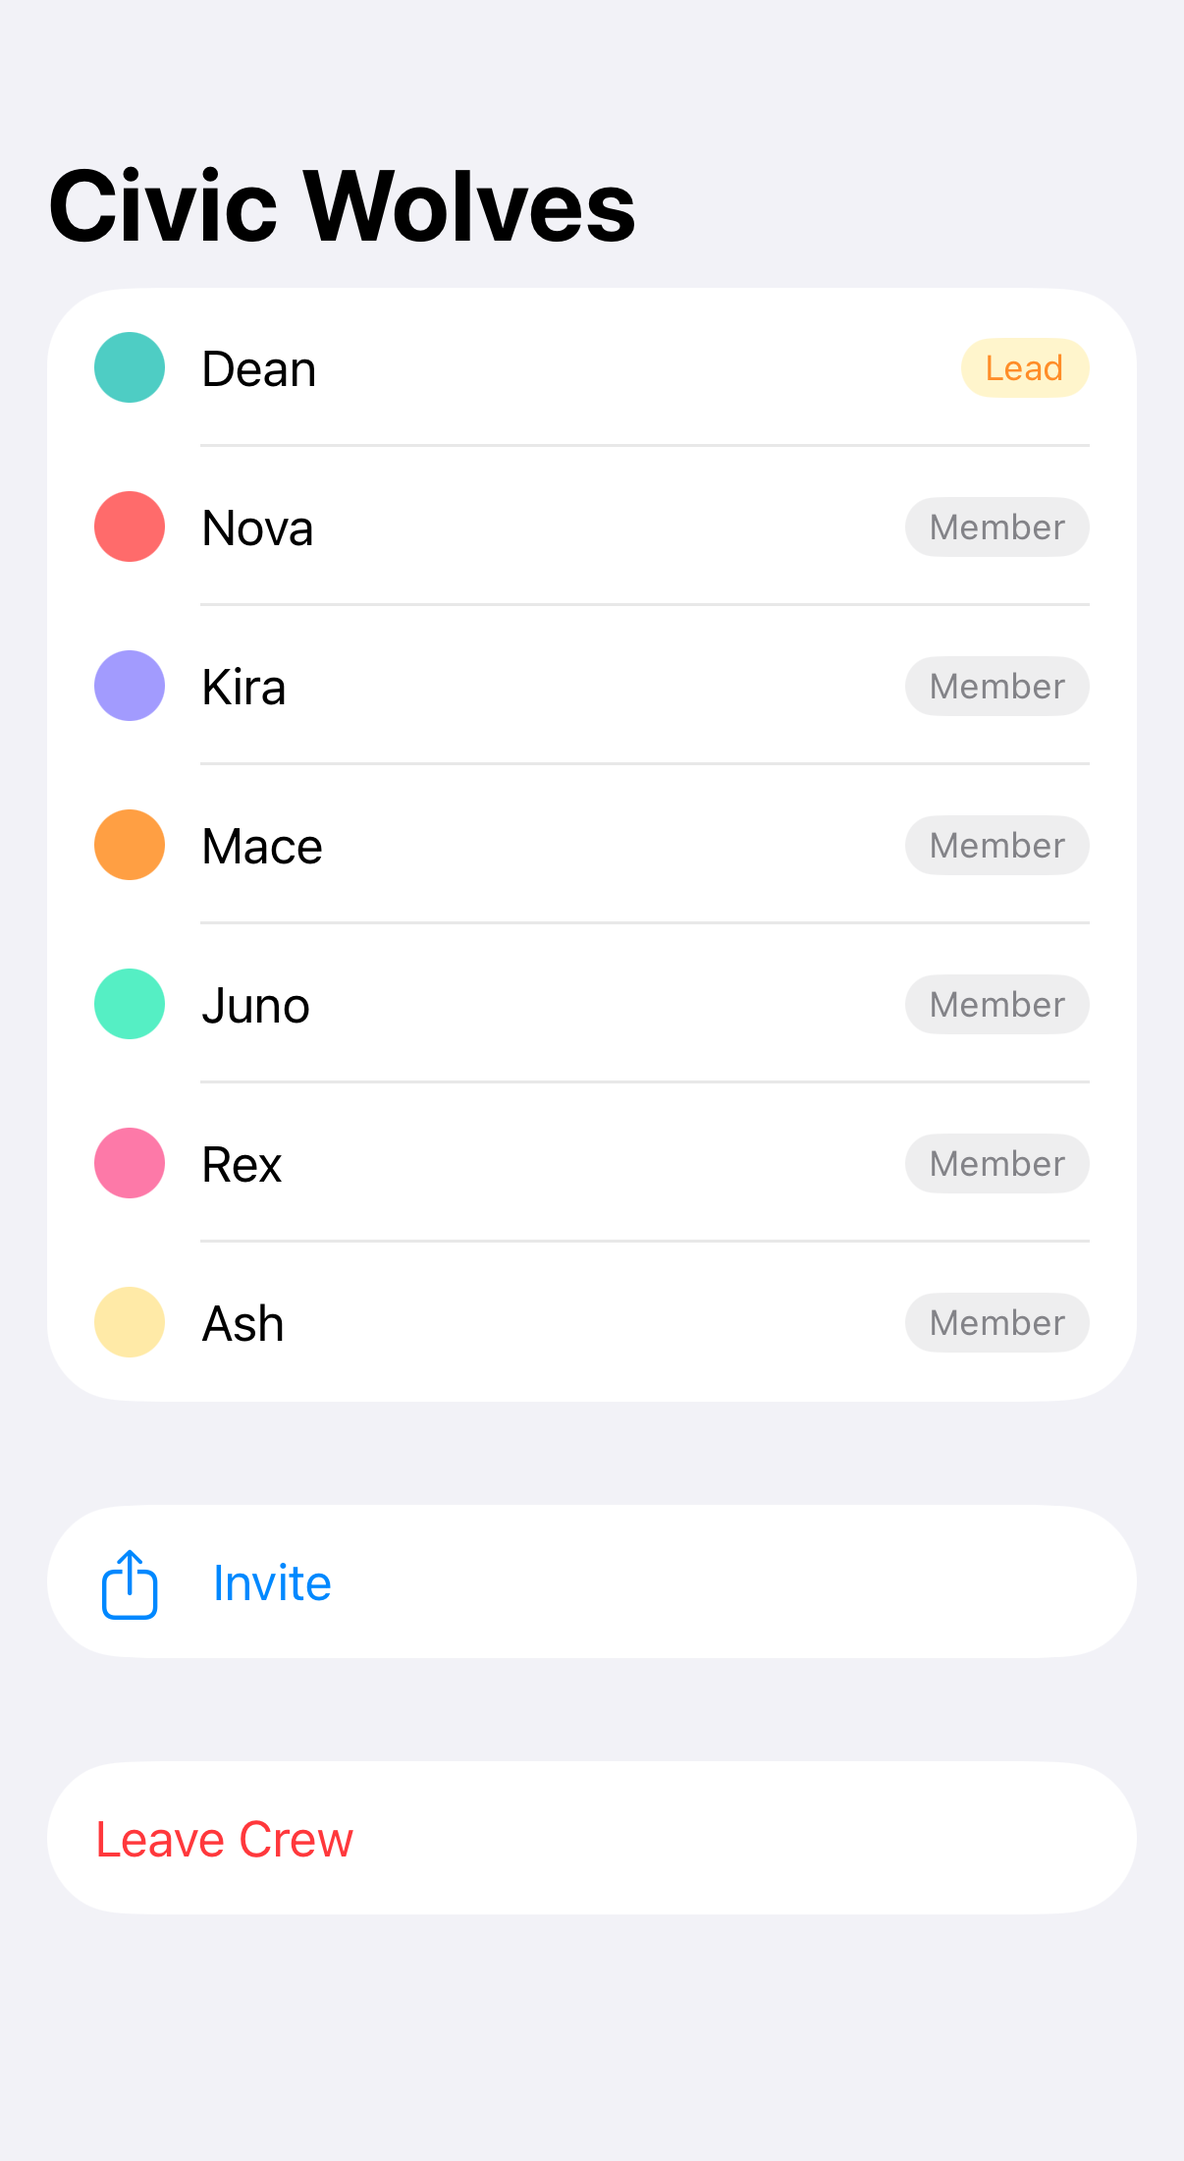
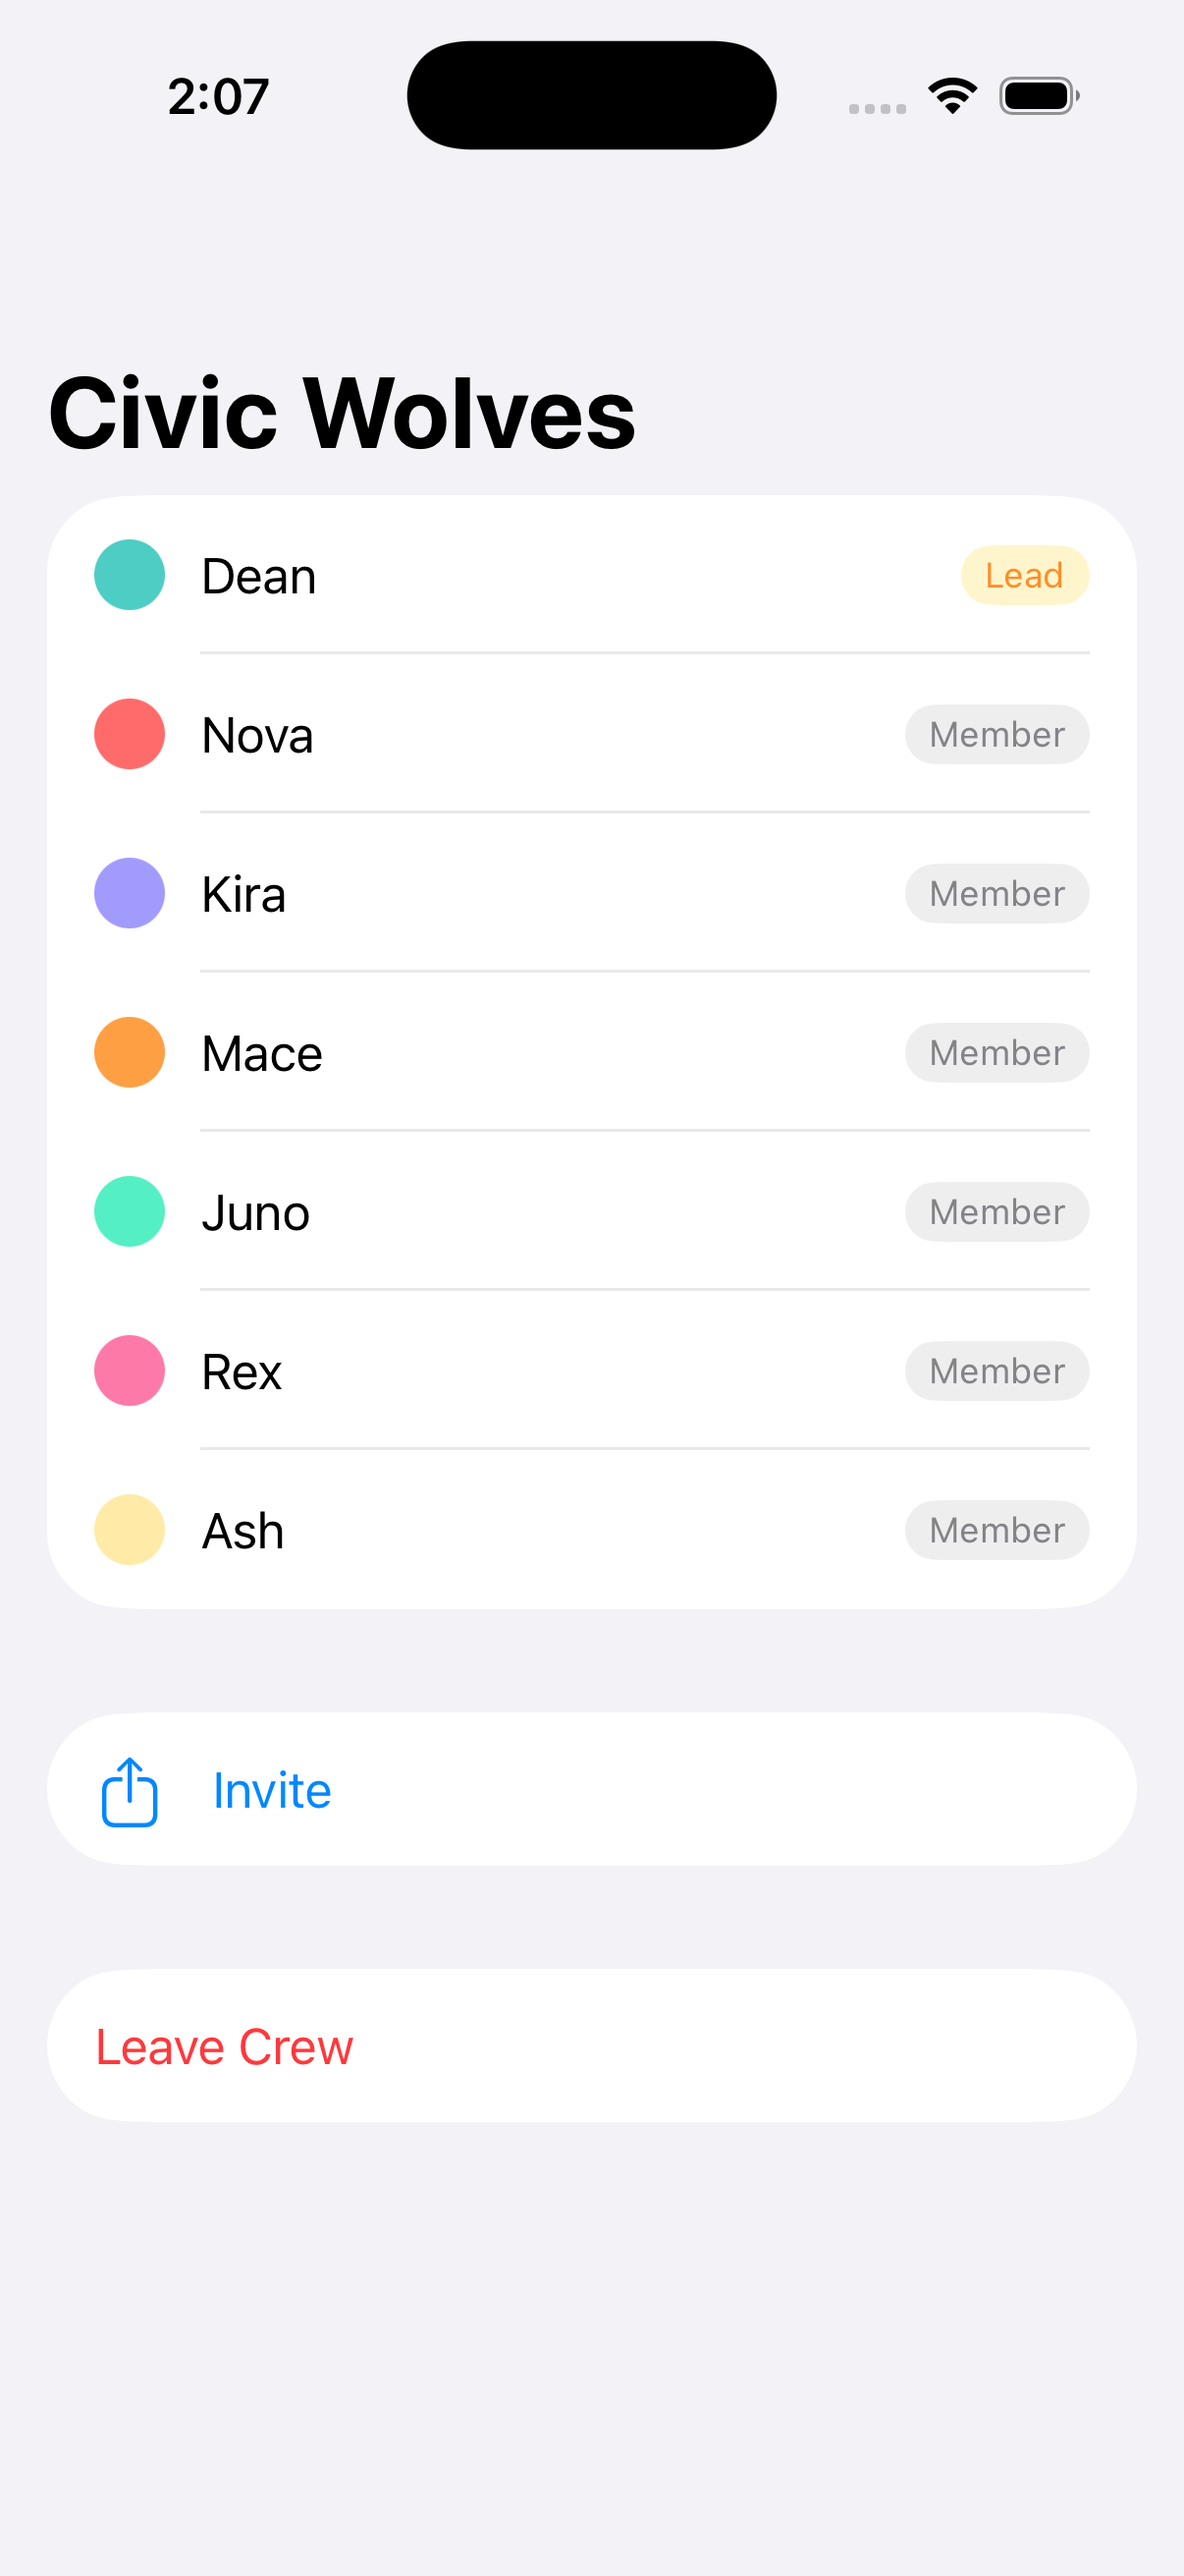
chore: update screenshots to full-height 1206×2622 native captures
Retaken with iPhone 17 Pro simulator (iOS 26.2) using the new
screenshot automation script. All six captures now fill the 393/852
phone frame correctly without clipping.

New shots: 04-walk-trail, 05-flood-confirm, 06-decay for narrative sections.
Restored object-fit: cover now that screenshots match frame ratio.

diff --git a/assets/css/main.scss b/assets/css/main.scss
@@ -654,7 +654,7 @@ a {
   width: 100%;
   height: 100%;
   border-radius: 34px;
-  object-fit: contain;
+  object-fit: cover;
   object-position: top;
   display: block;
 }
